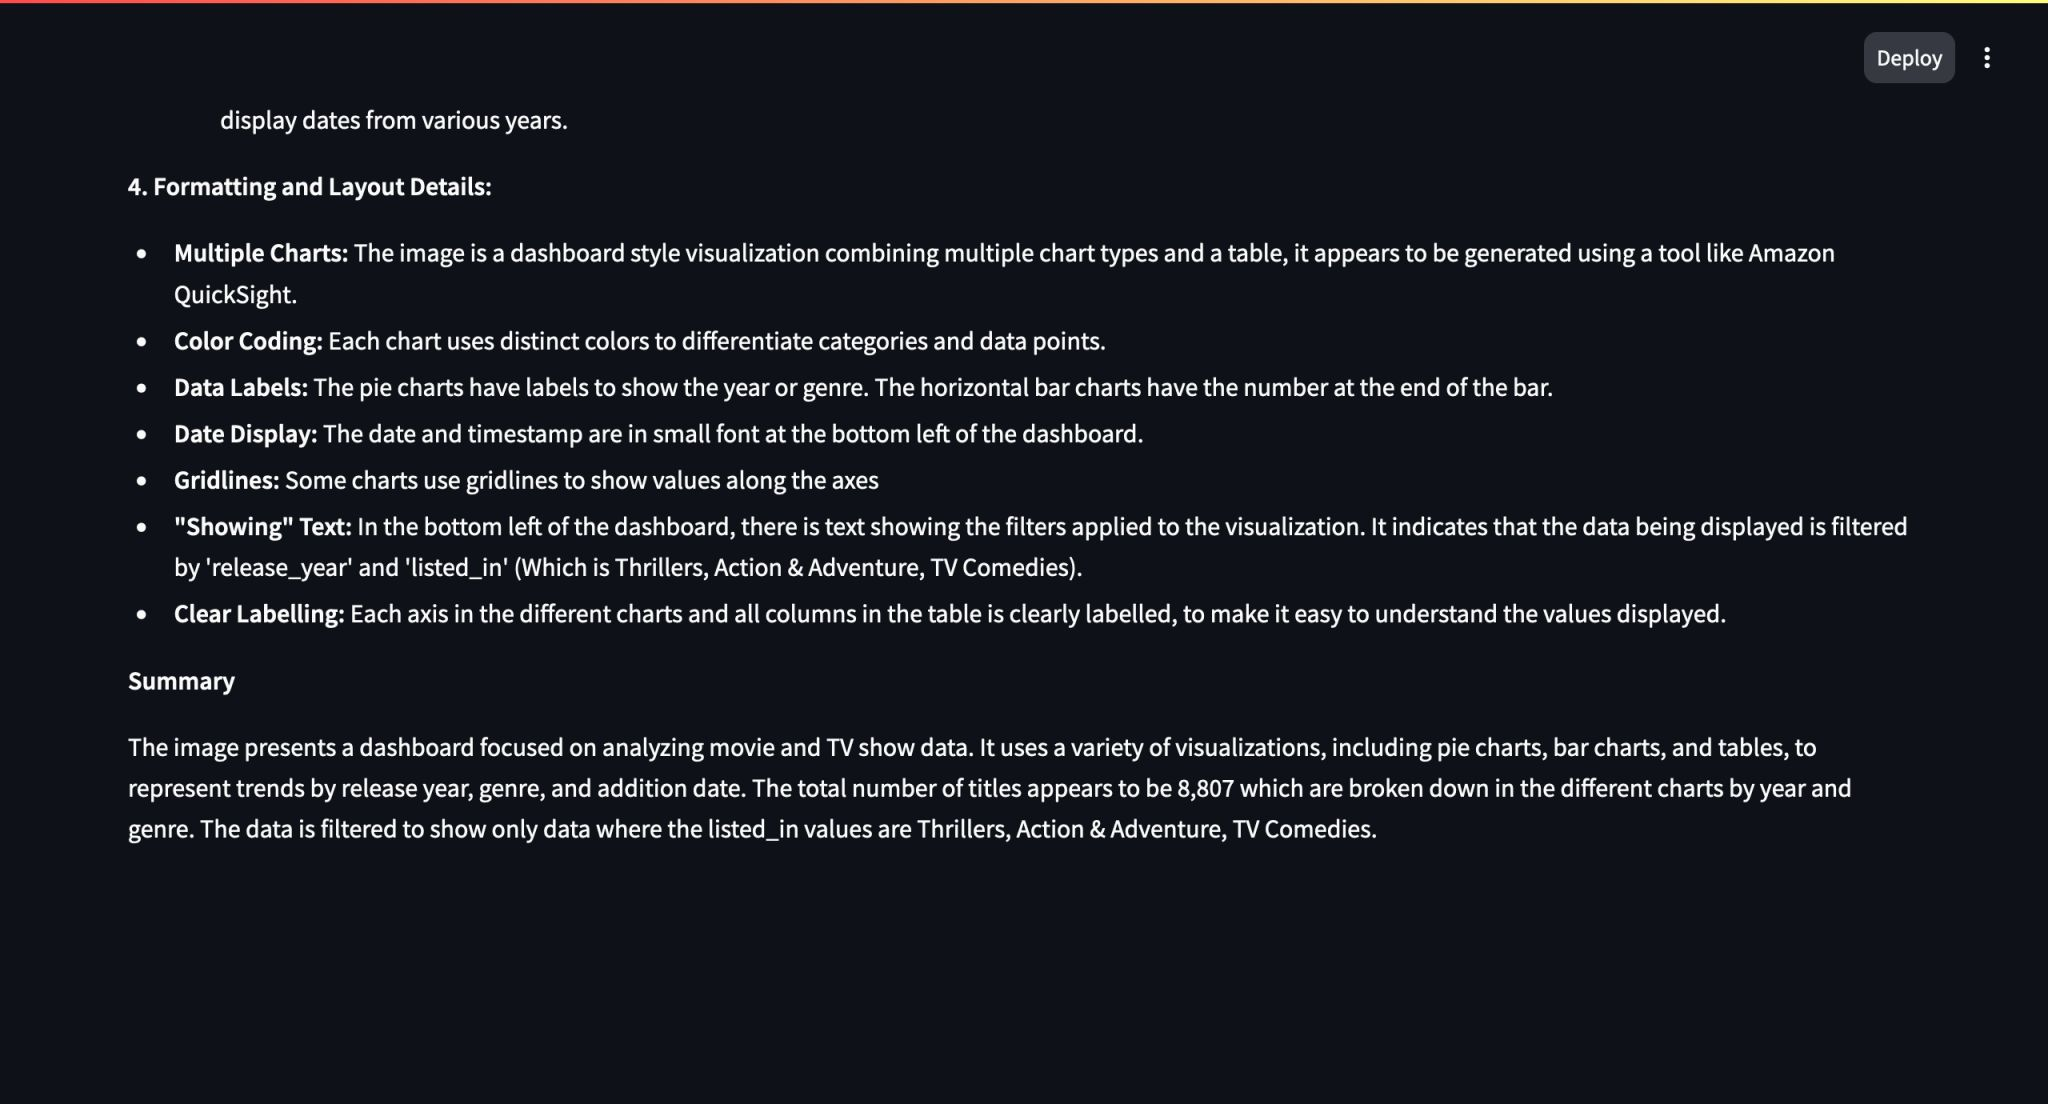
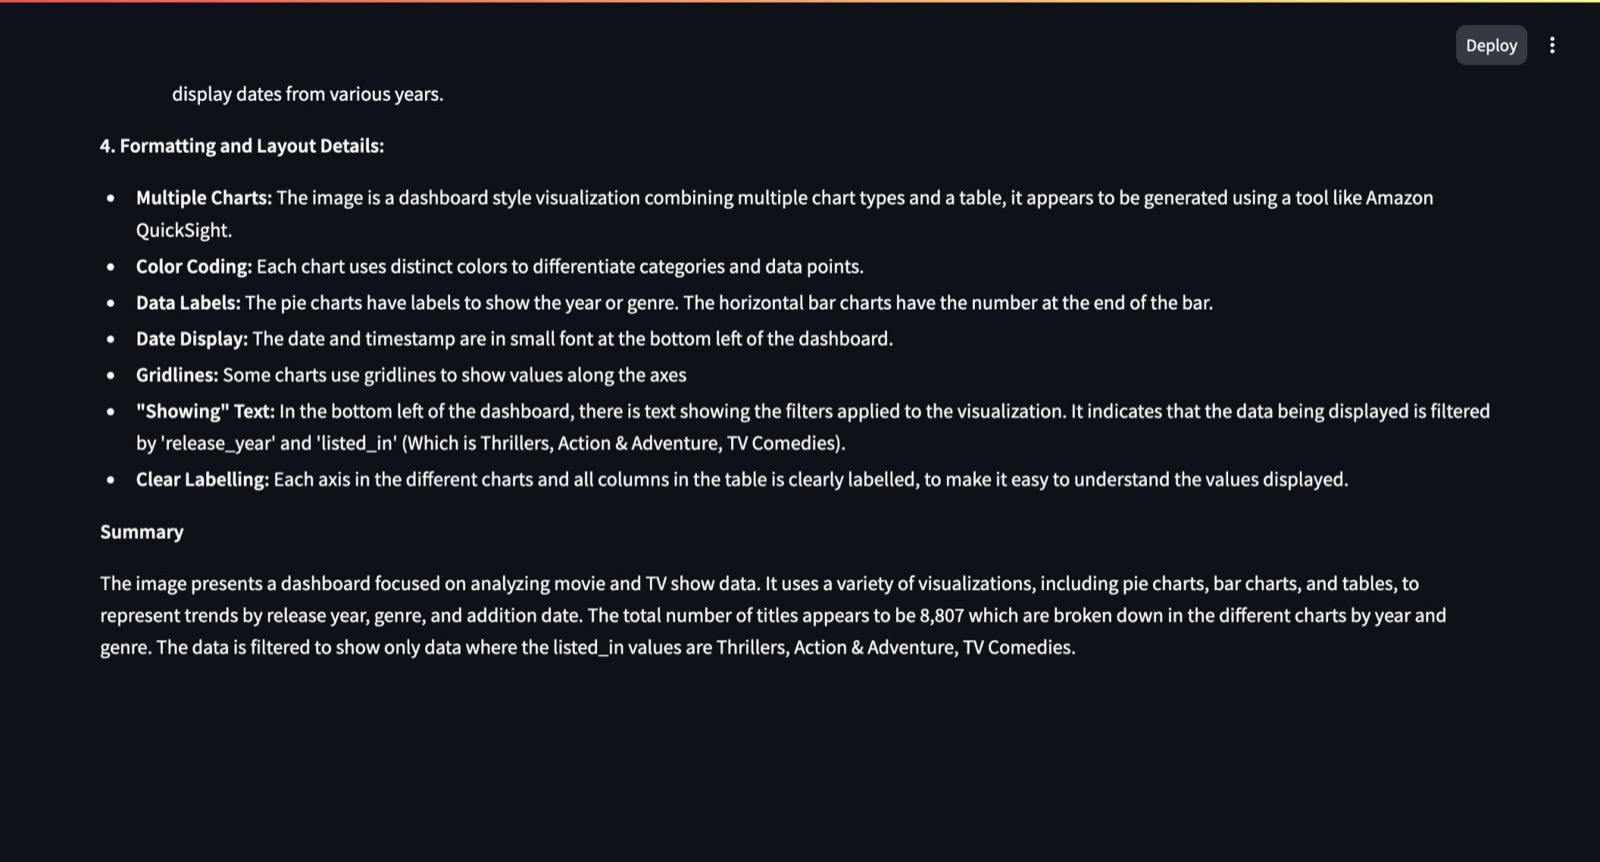
perf: conditional Mermaid loading, image optimization, git-based lastmod
- Load Mermaid runtime only on pages containing diagrams, injected once
  per page via the render hook (PaperMod caches footers per layout, so
  per-page logic there leaks across pages). Added theme-toggle re-render.
- Resize oversized portfolio screenshots (up to 8465px wide -> <=1600px)
  and convert heavy screenshots to JPEG; profile.jpg 496K -> 36K
- enableGitInfo: article:modified_time, schema dateModified and a visible
  'Updated' badge now reflect git history

diff --git a/layouts/_default/_markup/render-codeblock-mermaid.html b/layouts/_default/_markup/render-codeblock-mermaid.html
@@ -1,12 +1,24 @@
 {{- $id := printf "diagram-%02d" (add .Ordinal 1) -}}
-<figure class="diagram not-prose relative scroll-mt-8 rounded border pt-6" id="{{ $id }}">
-  <aside
-    class="absolute -top-[1px] right-0 z-50 hidden rounded-bl-sm rounded-tr-sm bg-gray-200 px-2 py-1 text-gray-500 transition-opacity md:inline-block"
-  >
-    
-  </aside>
-  <pre class="mermaid !bg-inherit">
+{{- /* Load the Mermaid runtime once per page (only when a mermaid block
+       renders). Store is page-scoped and content render is sequential. */ -}}
+{{- if not (.Page.Store.Get "mermaidLoaded") -}}
+<script type="module">
+  import mermaid from "https://cdn.jsdelivr.net/npm/mermaid@10/dist/mermaid.esm.min.mjs";
+  const themeOf = () => document.documentElement.dataset.theme === "dark" ? "dark" : "default";
+  mermaid.initialize({ startOnLoad: true, theme: themeOf() });
+  /* Re-render diagrams when the site theme is toggled */
+  new MutationObserver(() => {
+    mermaid.initialize({ startOnLoad: false, theme: themeOf() });
+    document.querySelectorAll("pre.mermaid").forEach((el) => {
+      el.removeAttribute("data-processed");
+      mermaid.run({ nodes: [el] });
+    });
+  }).observe(document.documentElement, { attributes: true, attributeFilter: ["data-theme"] });
+</script>
+{{- .Page.Store.Set "mermaidLoaded" true -}}
+{{- end -}}
+<figure class="diagram" id="{{ $id }}">
+  <pre class="mermaid">
     {{- .Inner | safeHTML }}
   </pre>
 </figure>
-{{- .Page.Store.Set "hasMermaid" true -}}

diff --git a/layouts/partials/post_meta.html b/layouts/partials/post_meta.html
@@ -1,0 +1,29 @@
+{{- $scratch := newScratch }}
+
+{{- if not .Date.IsZero -}}
+{{- $scratch.Add "meta" (slice (printf "<span title='%s'>%s</span>" (.Date) (.Date | time.Format (default ":date_long" site.Params.DateFormat)))) }}
+{{- end }}
+
+{{- if (.Param "ShowReadingTime") -}}
+{{- $scratch.Add "meta" (slice (printf "<span>%s</span>" (i18n "read_time" .ReadingTime | default (printf "%d min" .ReadingTime)))) }}
+{{- end }}
+
+{{- if (.Param "ShowWordCount") -}}
+{{- $scratch.Add "meta" (slice (printf "<span>%s</span>" (i18n "words" .WordCount | default (printf "%d words" .WordCount)))) }}
+{{- end }}
+
+{{- if not (.Param "hideAuthor") -}}
+{{- with (partial "author.html" .) }}
+{{- $scratch.Add "meta" (slice (printf "<span>%s</span>" .)) }}
+{{- end }}
+{{- end }}
+
+{{- with ($scratch.Get "meta") }}
+{{- delimit . "&nbsp;·&nbsp;" | safeHTML -}}
+{{- end -}}
+
+{{- /* Show "Updated on" when the last modification date differs from the
+       publication date (populated automatically via git via enableGitInfo). */ -}}
+{{- if and (not .Lastmod.IsZero) (not .Date.IsZero) (ne (.Lastmod.Format "2006-01-02") (.Date.Format "2006-01-02")) }}
+<span class="post-lastmod" title="{{ .Lastmod }}">· Updated {{ .Lastmod | time.Format (default ":date_long" site.Params.DateFormat) }}</span>
+{{- end }}

diff --git a/layouts/partials/extend_footer.html b/layouts/partials/extend_footer.html
@@ -1,0 +1,3 @@
+{{- /* Add custom body-end injections here (site-wide). Note: PaperMod caches
+       the footer per layout/kind, so per-page conditionals here leak across
+       pages — page-scoped injections belong in content render hooks. */ -}}

diff --git a/layouts/partials/extend_head.html b/layouts/partials/extend_head.html
@@ -1,1 +1,2 @@
-<script src="https://cdn.jsdelivr.net/npm/mermaid@10/dist/mermaid.min.js"></script>
+{{- /* Add custom <head> injections here (site-wide). Mermaid loads in
+       extend_footer.html only on pages that use it. */ -}}

diff --git a/content/portfolio/agentic-file-query.md b/content/portfolio/agentic-file-query.md
@@ -7,7 +7,7 @@ tags: ["ai", "llm", "python", "gemini", "adk", "rag", "docling", "vector-search"
 categories: ["AI", "RAG Engineering", "LLM"]
 series: ["AI Engineering"]
 cover:
-    image: portfolio/adk-view.png
+    image: portfolio/adk-view.jpeg
     caption: "Agent Development Kit (ADK) view of the agent"
 showToc: true
 ---
@@ -20,7 +20,7 @@ I wanted something better. Something that behaves less like a search engine and 
 
 So I built **Agentic File Query**: an AI-powered document search system that replaces the fixed retrieve-and-generate pipeline with an autonomous agent that reasons about what to read and when.
 
-![Agentic File Query — FastAPI Web UI showing the agent scanning documents and calling tools in real time](/portfolio/fastapi-ui-view.png)
+![Agentic File Query — FastAPI Web UI showing the agent scanning documents and calling tools in real time](/portfolio/fastapi-ui-view.jpeg)
 
 ## Source Code
 
@@ -293,7 +293,7 @@ I needed something that could handle messy real-world documents — scanned PDFs
 
 The system offers multiple interfaces:
 
-![ADK Dev UI showing the agent's tool graph and a research query response](/portfolio/adk-view.png)
+![ADK Dev UI showing the agent's tool graph and a research query response](/portfolio/adk-view.jpeg)
 
 ```bash
 # CLI — Full agent search

diff --git a/content/portfolio/football-oracle.md b/content/portfolio/football-oracle.md
@@ -12,7 +12,7 @@ showToc: true
 
 The analysis of football player performance has evolved significantly with the advent of advanced data analytics and artificial intelligence. Traditional scouting methods are increasingly supplemented by data-driven insights, enabling more informed decision-making. Football Oracle addresses this need by providing a comprehensive platform for generating and accessing detailed player analytics reports. This project aims to create a system that is not only functional but also scalable, maintainable, and secure, adhering to best practices in software engineering.
 
-![Example image of the Football Oracle](/portfolio/football-oracle-example.png)
+![Example image of the Football Oracle](/portfolio/football-oracle-example.jpeg)
 
 ## Source Code
 
